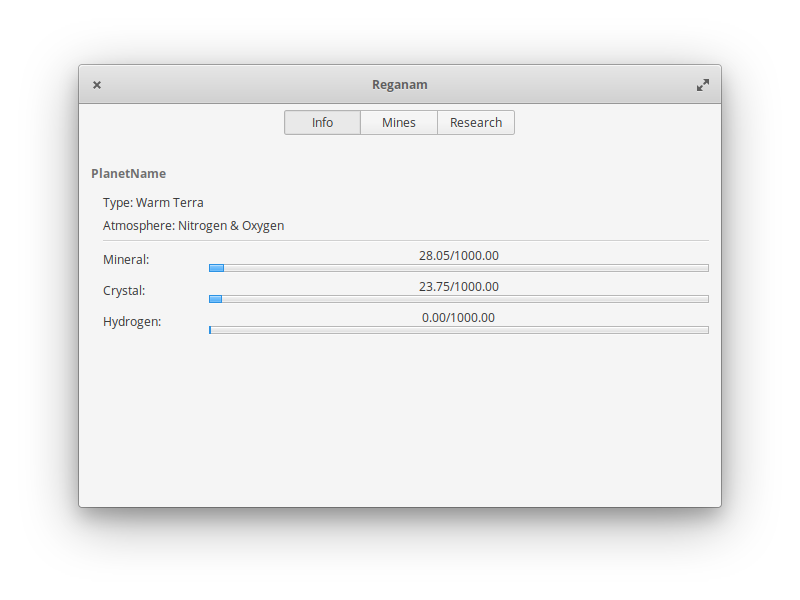
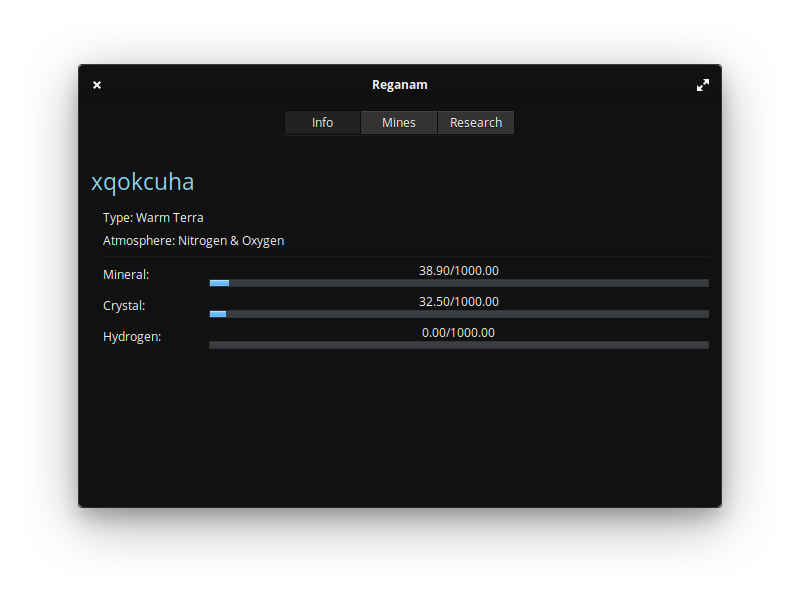
1.0.0 - Some more stuff

diff --git a/data/style.css b/data/style.css
@@ -1,0 +1,34 @@
+@define-color colorPrimary #111111;
+@define-color textColorPrimary #FAFAFA;
+
+window.background {
+	background-color: #111;
+}
+
+button {
+	background-color: #333;
+}
+
+button:checked {
+	background-color: #222;
+}
+
+button:active {
+	background-color: #222;
+}
+
+.titlebutton {
+	background-color: #111;
+}
+
+label.h4 {
+	font-size: 1.9em;
+	color: #8DD6EF;
+	font-weight: 500;
+}
+
+progressbar trough {
+	background-color: #111;
+	box-shadow: none;
+	border: 1px solid #333;
+}

diff --git a/meson/post_install.py b/meson/post_install.py
@@ -5,7 +5,7 @@ import subprocess
 schemadir = os.path.join(os.environ['MESON_INSTALL_PREFIX'], 'share', 'glib-2.0', 'schemas')
 
 if not os.environ.get('DESTDIR'):
-    print('Compiling gsettings schemas…')
+    print('Compiling gsettings schemas...')
     subprocess.call(['glib-compile-schemas', schemadir], shell=False)
 
     print('Rebuilding desktop icons cache...')
